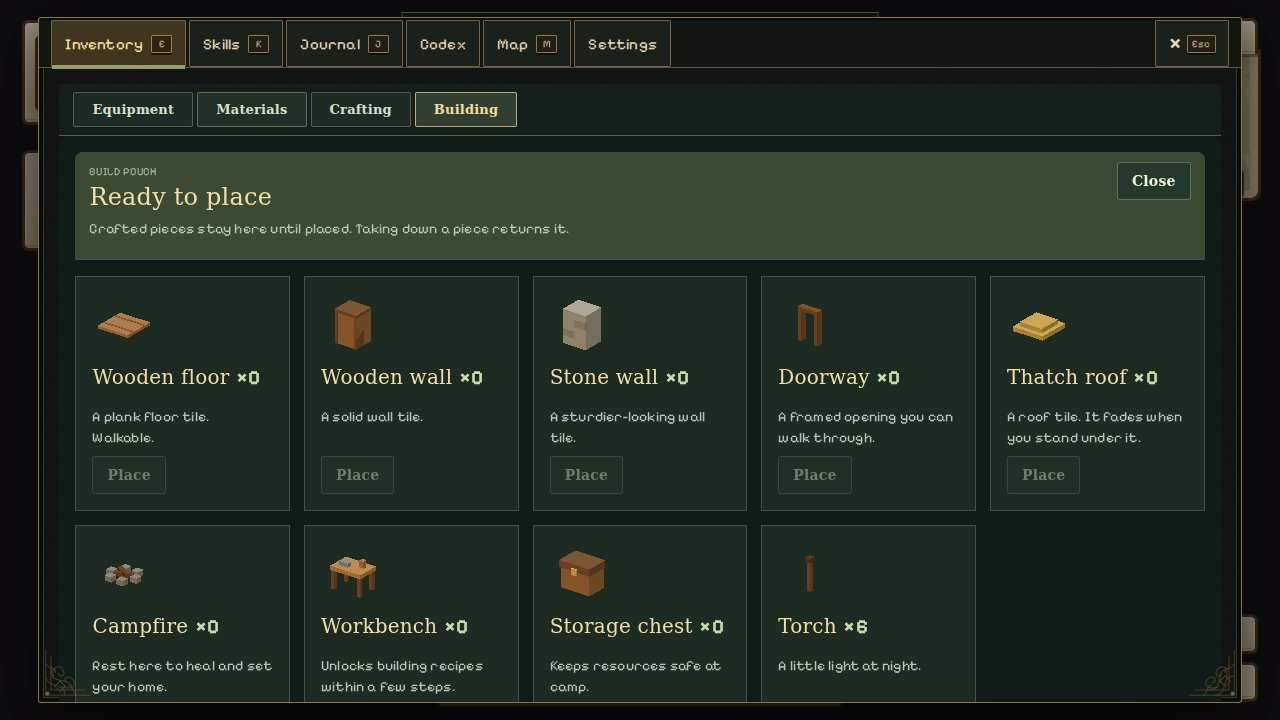
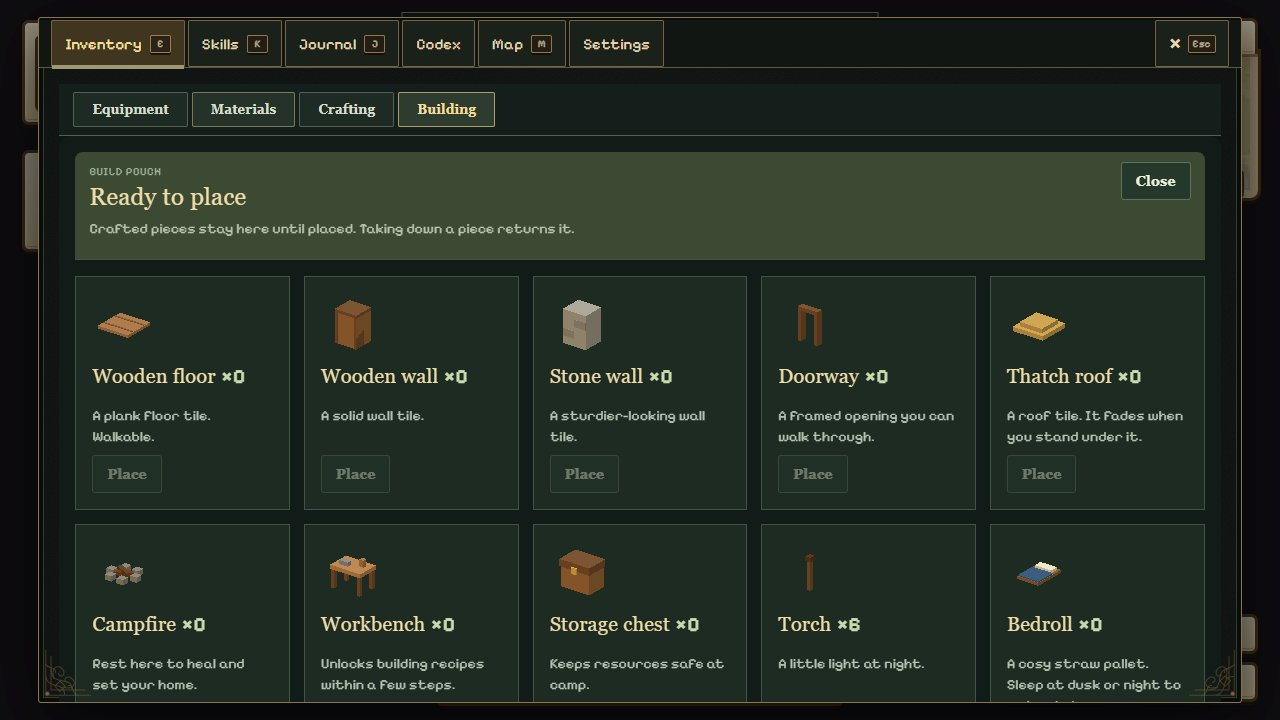
feat(survival): add bedroll night skipping, quick-stack chests, container crafting and warding brazier

diff --git a/src/survival/ui.js b/src/survival/ui.js
@@ -62,18 +62,22 @@ export class SurvivalUI {
   toggleCraft(){this.panel.classList.contains('hidden')?this.openCraft():this.g.ui.closeInventory();}
   openCraft(station,tab='craft') {this.closeAll();this.tab=tab;this.quantity=this.quantity||1;this.g.ui.invTab='bag';this.g.ui.openInventory();this.panel.classList.remove('hidden');this.decorate();this.renderPanel();this.g.input.keys.clear();}
   closeAll(){this.panel.classList.add('hidden');this.chest.classList.add('hidden');this.chestFor=null;document.getElementById('inv-bag')?.classList.toggle('hidden',this.g.ui.invTab!=='bag');const nav=document.getElementById('field-tabs');if(nav)for(const b of nav.children)b.setAttribute('aria-pressed',String(b.dataset.field==='equipment'));}
-  icon(id){return PIECES[id]?`<img class="craft-model" src="${structureIconURL(id,pieceParts(id))}" alt="">`:'<span class="craft-tonic" aria-hidden="true">✦</span>';}
+  icon(id){
+    if (PIECES[id]) return `<img class="craft-model" src="${structureIconURL(id,pieceParts(id))}" alt="">`;
+    if (id === 'pouch') return '<span class="craft-tonic" aria-hidden="true">🎒</span>';
+    return '<span class="craft-tonic" aria-hidden="true">✦</span>';
+  }
   renderPanel(){
     const m=this.m,R=m.record,kits=R.kits||{},q=this.quantity||1;
     if(this.tab==='materials'){
       const tips={wood:'Chop trees. Used for furniture and wooden structures.',stone:'Break rocks. Used for campfires and stonework.',fibre:'Cut shrubs; some trees also drop fibre. Used for torches and roofs.',ore:'Mine ore veins. Keep it in a chest for later recipes.',crystal:'Mine cave crystals. Used for crystal tonics.'};
-      this.panel.innerHTML=`<header><div><small>FIELD INVENTORY</small><h2>Materials</h2><p>Shared by all recipes. These do not occupy equipment slots.</p></div><button data-act="close">Close</button></header><div class="material-grid">${RESOURCES.map(k=>`<article><span>${ICON[k]}</span><h3>${NAME[k]} <b>${R.resources[k]}</b></h3><p>${tips[k]}</p></article>`).join('')}</div><footer><button data-act="home">Go home</button><button data-act="unstuck">Unstuck</button><button data-act="quit">Save & quit</button></footer>`;return;
+      this.panel.innerHTML=`<header><div><small>FIELD INVENTORY</small><h2>Materials</h2><p>Shared by all recipes. These do not occupy equipment slots.</p></div><button data-act="close">Close</button></header><div class="material-grid">${RESOURCES.map(k=>`<article><span>${ICON[k]}</span><h3>${NAME[k]} <b>${R.resources[k]}</b></h3><p>${tips[k]}</p></article>`).join('')}</div><footer><button data-act="quickstack">Quick stack to chests</button><button data-act="home">Go home</button><button data-act="unstuck">Unstuck</button><button data-act="quit">Save & quit</button></footer>`;return;
     }
     if(this.tab==='build'){
       this.panel.innerHTML=`<header><div><small>BUILD POUCH</small><h2>Ready to place</h2><p>Crafted pieces stay here until placed. Taking down a piece returns it.</p></div><button data-act="close">Close</button></header><div class="build-grid">${Object.entries(PIECES).map(([k,p])=>`<article>${this.icon(k)}<h3>${esc(p.name)} <b>×${kits[k]||0}</b></h3><p>${esc(p.desc)}</p><button data-act="place" data-id="${k}" ${kits[k]>0?'':'disabled'}>Place</button></article>`).join('')}</div><footer><button data-act="place" data-id="demolish">Take down a piece</button><span>Point with mouse or right stick. Attack places; secondary cancels.</span></footer>`;return;
     }
-    const selected=RECIPES.find(r=>r.id===this.selectedRecipe)||RECIPES[0];this.selectedRecipe=selected.id;const c=m.canCraft(selected.id,q);
-    this.panel.innerHTML=`<header><div><small>CAMP WORKSHOP</small><h2>Craft something useful</h2><p>${m.nearStation('workbench')?'Workbench nearby · station recipes available':'Hand crafting · place a workbench for more recipes'}</p></div><button data-act="close">Close</button></header><div class="craft-layout"><div class="recipe-list" aria-label="Recipes">${RECIPES.map(r=>`<button data-act="recipe" data-id="${r.id}" aria-pressed="${r.id===selected.id}">${this.icon(r.gives)}<span><b>${esc(r.name)}</b><small>${m.canCraft(r.id).ok?'Ready to craft':r.station&&!m.nearStation(r.station)?'Needs '+esc(PIECES[r.station]?.name||r.station):'Gather materials'}</small></span></button>`).join('')}</div><section class="recipe-detail">${this.icon(selected.gives)}<small>${selected.station?esc(PIECES[selected.station]?.name||selected.station):'BY HAND'} · ${selected.qty||1} PER CRAFT</small><h3>${esc(selected.name)}</h3><p>${esc(selected.desc)}</p><dl>${Object.entries(selected.cost).map(([k,v])=>`<div class="${R.resources[k]>=v*q?'ok':'no'}"><dt>${ICON[k]} ${NAME[k]}</dt><dd>${R.resources[k]} / ${v*q} <small>held / needed</small></dd></div>`).join('')}</dl><label>Number of crafts <input type="number" data-quantity min="1" max="99" value="${q}" aria-label="Number of crafts"></label><p class="craft-result">Makes ${q*(selected.qty||1)} · ${selected.gives==='tonic'?'Tonic pouch':`${kits[selected.gives]||0} already in build pouch`}</p><p class="craft-reason" role="status">${esc(c.ok?'Materials ready.':c.why)}</p><div class="craft-actions"><button data-act="craftit" data-id="${selected.id}" ${c.ok?'':'disabled'}>Craft ${q*(selected.qty||1)}</button><button data-act="track" data-id="${selected.id}">${R.trackedRecipe===selected.id?'Untrack':'Track materials'}</button></div></section></div>`;
+    const selected=RECIPES.find(r=>r.id===this.selectedRecipe)||RECIPES[0];this.selectedRecipe=selected.id;const c=m.canCraft(selected.id,q);const avail=m.availableResources(10);
+    this.panel.innerHTML=`<header><div><small>CAMP WORKSHOP</small><h2>Craft something useful</h2><p>${m.nearStation('workbench')?'Workbench nearby · station recipes available':'Hand crafting · place a workbench for more recipes'}</p></div><button data-act="close">Close</button></header><div class="craft-layout"><div class="recipe-list" aria-label="Recipes">${RECIPES.map(r=>`<button data-act="recipe" data-id="${r.id}" aria-pressed="${r.id===selected.id}">${this.icon(r.gives)}<span><b>${esc(r.name)}</b><small>${m.canCraft(r.id).ok?'Ready to craft':r.station&&!m.nearStation(r.station)?'Needs '+esc(PIECES[r.station]?.name||r.station):'Gather materials'}</small></span></button>`).join('')}</div><section class="recipe-detail">${this.icon(selected.gives)}<small>${selected.station?esc(PIECES[selected.station]?.name||selected.station):'BY HAND'} · ${selected.qty||1} PER CRAFT</small><h3>${esc(selected.name)}</h3><p>${esc(selected.desc)}</p><dl>${Object.entries(selected.cost).map(([k,v])=>{const held=R.resources[k]||0;const inChest=(avail[k]||0)-held;const totalAvail=avail[k]||0;const needed=v*q;return `<div class="${totalAvail>=needed?'ok':'no'}"><dt>${ICON[k]} ${NAME[k]}</dt><dd>${held}${inChest>0?` <small>(+${inChest} in chest)</small>`:''} / ${needed} <small>avail / needed</small></dd></div>`;}).join('')}</dl><label>Number of crafts <input type="number" data-quantity min="1" max="99" value="${q}" aria-label="Number of crafts"></label><p class="craft-result">Makes ${q*(selected.qty||1)} · ${selected.gives==='tonic'?'Tonic pouch':selected.gives==='pouch'?`Pouch capacity (${this.g.inv.maxPotions||3}/5)`:`${kits[selected.gives]||0} already in build pouch`}</p><p class="craft-reason" role="status">${esc(c.ok?'Materials ready.':c.why)}</p><div class="craft-actions"><button data-act="craftit" data-id="${selected.id}" ${c.ok?'':'disabled'}>Craft ${q*(selected.qty||1)}</button><button data-act="track" data-id="${selected.id}">${R.trackedRecipe===selected.id?'Untrack':'Track materials'}</button></div></section></div>`;
   }
   onPanel(e){const b=e.target.closest('[data-act]');if(!b||b.disabled)return;const m=this.m;switch(b.dataset.act){
     case 'close':this.g.ui.closeInventory();break;
@@ -81,6 +85,7 @@ export class SurvivalUI {
     case 'track':m.record.trackedRecipe=m.record.trackedRecipe===b.dataset.id?null:b.dataset.id;this.g.save();this.refresh();break;
     case 'craftit':m.craft(b.dataset.id,this.quantity||1);this.renderPanel();break;
     case 'place':if(m.startBuild(b.dataset.id))this.g.ui.closeInventory();break;
+    case 'quickstack':m.quickStack();this.renderPanel();this.refresh();break;
     case 'home':this.g.ui.closeInventory();m.goHome();break;
     case 'unstuck':this.g.ui.closeInventory();m.unstick();break;
     case 'quit':this.g.ui.closeInventory();m.quit();break;
@@ -89,12 +94,18 @@ export class SurvivalUI {
   openChest(s) { this.g.ui.closeInventory(); this.closeAll(); this.chestFor = s; this.chest.classList.remove('hidden'); this.renderChest(); this.g.input.keys.clear(); }
   renderChest() {
     const R = this.m.record, S = R.storage[this.chestFor.id] || {};
-    this.chest.innerHTML = `<header><h2>Storage chest</h2><button type="button" data-act="close" aria-label="Close">✕</button></header>
+    this.chest.innerHTML = `<header><h2>Storage chest</h2><div class="chest-actions"><button type="button" data-act="quickstack" class="quick-stack-btn">Quick stack</button><button type="button" data-act="close" aria-label="Close">✕</button></div></header>
       <table><thead><tr><th></th><th>Carried</th><th></th><th>In chest</th></tr></thead><tbody>${RESOURCES.map(r => `<tr><th>${ICON[r]} ${NAME[r]}</th><td>${R.resources[r]}</td><td class="sv-moves"><button type="button" data-act="in" data-r="${r}" data-n="10">Store 10</button><button type="button" data-act="in" data-r="${r}" data-n="9999">Store all</button><button type="button" data-act="out" data-r="${r}" data-n="10">Take 10</button><button type="button" data-act="out" data-r="${r}" data-n="9999">Take all</button></td><td>${S[r] || 0}</td></tr>`).join('')}</tbody></table>`;
   }
   onChest(e) {
     const b = e.target.closest('[data-act]'); if (!b) return;
     if (b.dataset.act === 'close') return this.closeAll();
+    if (b.dataset.act === 'quickstack') {
+      this.m.quickStack();
+      this.renderChest();
+      this.refresh();
+      return;
+    }
     const n = +b.dataset.n, r = b.dataset.r;
     if (b.dataset.act === 'in') this.m.deposit(this.chestFor, r, n); else this.m.withdraw(this.chestFor, r, n);
     this.renderChest(); this.refresh();

diff --git a/src/survival/mode.js b/src/survival/mode.js
@@ -10,7 +10,7 @@ import { RECIPES } from './craft.js';
 import { WORLD, GEN_VERSION, BIOMES } from './biome.js';
 import { regionPoi } from './gen.js';
 import { T, isSolid, isLiquid } from '../world/tiles.js';
-import { defaultInventory, createProfile, runtimeEquipment, copy } from '../persistence/model.js';
+import { defaultInventory, createProfile, runtimeEquipment, copy, worldPhase } from '../persistence/model.js';
 import { restoreCharacter } from '../persistence/session.js';
 import { starterWeapon } from '../rpg/items.js';
 import { makeEnemy } from '../entities/enemies.js';
@@ -125,7 +125,11 @@ export class SurvivalMode {
       else if (d.type === 'svchest') list.push(g.spawn(new LootCache(g, d, this)));
       else list.push(g.spawn(new Landmark(g, d, this)));
     }
-    for (const m of c.packs) if (!this.killed.has(m.id)) { const e = this.enemy(m.kind, m.x, m.z); if (e) { e.packId = m.id; list.push(e); } }
+    for (const m of c.packs) if (!this.killed.has(m.id)) {
+      const nearBrazier = R.structures.some(s => s.type === 'brazier' && Math.hypot(s.x - m.x, s.z - m.z) < 20);
+      if (nearBrazier) continue;
+      const e = this.enemy(m.kind, m.x, m.z); if (e) { e.packId = m.id; list.push(e); }
+    }
     for (const s of R.structures) if (this.chunkOf(s.x, s.z) === key) list.push(g.spawn(new Structure(g, s, this)));
     this.byChunk.set(key, list);
   }
@@ -154,24 +158,67 @@ export class SurvivalMode {
     R.resources[res] += n; this.g.ui.float && this.g.ui.float(x ?? this.g.player.x, 1.2, z ?? this.g.player.z, '+' + n + ' ' + res, '#e8d6a8', false, true);
     this.ui && this.ui.refresh(); this.hintCheck();
   }
-  has(cost) { return Object.entries(cost).every(([k, v]) => (this.record.resources[k] || 0) >= v); }
+  nearbyChests(r = 10) {
+    const p = this.g.player; if (!p) return [];
+    return this.g.entities.filter(e => e.isStructure && e.type === 'chest' && !e.dead && Math.hypot(e.x - p.x, e.z - p.z) < r);
+  }
+  availableResources(r = 10) {
+    const R = this.record, avail = { ...R.resources };
+    for (const chest of this.nearbyChests(r)) {
+      const S = R.storage[chest.id] || {};
+      for (const [k, v] of Object.entries(S)) avail[k] = (avail[k] || 0) + v;
+    }
+    return avail;
+  }
+  has(cost) {
+    const avail = this.availableResources(10);
+    return Object.entries(cost).every(([k, v]) => (avail[k] || 0) >= v);
+  }
   nearStation(type, r = 4.5) { const p = this.g.player; return this.g.entities.some(e => e.isStructure && e.type === type && !e.dead && Math.hypot(e.x - p.x, e.z - p.z) < r); }
   canCraft(id, count = 1) {
     if(!Number.isInteger(count)||count<1||count>99)return {ok:false,why:"Choose 1–99 crafts."};
     const r = RECIPES.find(x => x.id === id); if (!r) return { ok: false, why: 'Unknown recipe.' };
     if (r.station && !this.nearStation(r.station)) return { ok: false, why: 'Needs a ' + PIECES[r.station].name.toLowerCase() + ' nearby.' };
-    if(r.gives==='tonic'&&this.g.inv.potions+count*(r.qty||1)>this.g.inv.maxPotions)return {ok:false,why:'No room for that many tonics.'};
-    const total=Object.fromEntries(Object.entries(r.cost).map(([k,v])=>[k,v*count]));
-    if (!this.has(total)) return { ok: false, why: 'Not enough: ' + Object.entries(total).filter(([k, v]) => this.record.resources[k] < v).map(([k, v]) => (v - this.record.resources[k]) + ' more ' + k).join(', ') + '.' };
+    if (r.gives === 'tonic' && this.g.inv.potions + count * (r.qty || 1) > (this.g.inv.maxPotions || 3)) return { ok: false, why: 'No room for that many tonics.' };
+    if (r.gives === 'pouch' && (this.g.inv.maxPotions || 3) + count > 5) return { ok: false, why: 'Tonic belt pouch cannot exceed 5.' };
+    const total = Object.fromEntries(Object.entries(r.cost).map(([k, v]) => [k, v * count]));
+    const avail = this.availableResources(10);
+    if (!this.has(total)) return { ok: false, why: 'Not enough: ' + Object.entries(total).filter(([k, v]) => (avail[k] || 0) < v).map(([k, v]) => (v - (avail[k] || 0)) + ' more ' + k).join(', ') + '.' };
     return { ok: true, why: '' };
   }
   craft(id, count = 1) {
-    const c = this.canCraft(id,count); if (!c.ok) { sfx('error'); return c; }
+    const c = this.canCraft(id, count); if (!c.ok) { sfx('error'); return c; }
     const r = RECIPES.find(x => x.id === id), R = this.record;
-    for (const [k, v] of Object.entries(r.cost)) R.resources[k] -= v*count;
-    if (r.gives === 'tonic') { this.g.inv.potions = Math.min(this.g.inv.maxPotions, this.g.inv.potions + count*(r.qty||1)); this.g.hudDirty = true; }
-    else { R.kits = R.kits || {}; R.kits[r.gives] = (R.kits[r.gives] || 0) + count*(r.qty || 1); }
-    sfx('forge'); this.g.ui.toast('Crafted: ' + r.name, r.gives === 'tonic' ? 'A tonic, ready to drink (H).' : 'Place it from the Build list.', 2);
+    for (const [k, v] of Object.entries(r.cost)) {
+      let needed = v * count;
+      const fromHeld = Math.min(needed, R.resources[k] || 0);
+      R.resources[k] -= fromHeld;
+      needed -= fromHeld;
+      if (needed > 0) {
+        for (const chest of this.nearbyChests(10)) {
+          const S = R.storage[chest.id] || {};
+          const fromChest = Math.min(needed, S[k] || 0);
+          S[k] -= fromChest;
+          needed -= fromChest;
+          if (needed <= 0) break;
+        }
+      }
+    }
+    if (r.gives === 'tonic') {
+      this.g.inv.potions = Math.min(this.g.inv.maxPotions || 3, this.g.inv.potions + count * (r.qty || 1));
+      this.g.hudDirty = true;
+    } else if (r.gives === 'pouch') {
+      this.g.inv.maxPotions = Math.min(5, (this.g.inv.maxPotions || 3) + count);
+      this.g.inv.potions = Math.min(this.g.inv.maxPotions, (this.g.inv.potions || 0) + count);
+      this.g.hudDirty = true;
+      this.g.ui.toast && this.g.ui.toast('Belt expanded', 'You can now carry up to ' + this.g.inv.maxPotions + ' tonics.', 2.4);
+    } else {
+      R.kits = R.kits || {}; R.kits[r.gives] = (R.kits[r.gives] || 0) + count * (r.qty || 1);
+    }
+    sfx('forge');
+    if (r.gives !== 'pouch') {
+      this.g.ui.toast && this.g.ui.toast('Crafted: ' + r.name, r.gives === 'tonic' ? 'A tonic, ready to drink (H).' : 'Place it from the Build list.', 2);
+    }
     this.ui && this.ui.refresh(); this.hintCheck(); this.g.save();
     return { ok: true };
   }
@@ -182,7 +229,7 @@ export class SurvivalMode {
     g.scene.add(ghost); this.build = { type, ghost, ok: false, tx: 0, tz: 0 }; this.ui && this.ui.refresh();
     return true;
   }
-  endBuild() { if (this.build) { this.g.scene.remove(this.build.ghost); this.build.ghost.geometry.dispose(); this.build.ghost.material.dispose(); this.build = null; this.ui && this.ui.refresh(); } }
+  endBuild() { if (this.build) { if (this.build.ghost) { this.g.scene.remove(this.build.ghost); this.build.ghost.geometry?.dispose(); this.build.ghost.material?.dispose(); } this.build = null; this.ui && this.ui.refresh(); } }
   target() {
     const g = this.g, p = g.player, inp = g.input;
     let x = p.x + Math.sin(p.facing) * 1.4, z = p.z + Math.cos(p.facing) * 1.4;
@@ -225,8 +272,65 @@ export class SurvivalMode {
   useStructure(s) {
     const g = this.g;
     if (s.type === 'campfire') { this.setHome(s.x, s.z + 1.1); g.inv.hp = g.inv.maxHp; g.inv.potions = Math.max(g.inv.potions, 2); g.res = 100; g.hudDirty = true; sfx('heart'); g.save(); }
+    if (s.type === 'bed') this.sleepInBed(s);
     if (s.type === 'workbench') this.ui && this.ui.openCraft(true);
     if (s.type === 'chest') this.ui && this.ui.openChest(s);
+  }
+  sleepInBed(s) {
+    const g = this.g;
+    if (g.transitioning || (g.player && g.player.combatT > 0)) {
+      g.ui.toast && g.ui.toast('In combat', 'You cannot sleep while in combat!', 1.8);
+      return;
+    }
+    const phase = worldPhase(g.time || 0, g.flags.dayOffset || 0);
+    if (!phase.isNight && phase.fraction < 0.62) {
+      g.ui.toast && g.ui.toast('Not tired yet', 'You can only sleep at dusk or during the night.', 2.0);
+      return;
+    }
+    const currentTotal = (g.time || 0) + (g.flags.dayOffset || 0);
+    const currentFrac = ((currentTotal / 420) + 0.32) % 1;
+    const neededAdvance = ((0.25 - currentFrac) % 1 + 1) % 1;
+    g.flags.dayOffset = (g.flags.dayOffset || 0) + neededAdvance * 420;
+    g.dayT = 0.25;
+    g.atmosphere && g.atmosphere(0.001);
+
+    this.setHome(s.x, s.z + 0.5, true);
+    g.inv.hp = g.inv.maxHp;
+    g.inv.potions = Math.max(g.inv.potions, 2);
+    g.res = 100;
+    g.hudDirty = true;
+    sfx('heart');
+    g.ui.toast && g.ui.toast('Dawn arrives', 'You wake rested at camp as the sun rises. Health restored.', 2.8);
+    g.save();
+  }
+  quickStack(r = 10) {
+    const chests = this.nearbyChests(r);
+    if (!chests.length) {
+      this.g.ui.toast && this.g.ui.toast('No chests nearby', 'Place a storage chest near camp to quick-stack.', 1.8);
+      return { ok: false, count: 0 };
+    }
+    const R = this.record;
+    let total = 0;
+    for (const chest of chests) {
+      const S = R.storage[chest.id] || (R.storage[chest.id] = {});
+      for (const res of RESOURCES) {
+        if ((S[res] || 0) > 0 && (R.resources[res] || 0) > 0) {
+          const amount = R.resources[res];
+          R.resources[res] = 0;
+          S[res] = (S[res] || 0) + amount;
+          total += amount;
+        }
+      }
+    }
+    if (total > 0) {
+      sfx('gatherpickup');
+      this.g.ui.toast && this.g.ui.toast('Quick-stacked', `Deposited ${total} items into nearby chests.`, 2.0);
+      this.ui && this.ui.refresh();
+      this.g.save();
+    } else {
+      this.g.ui.toast && this.g.ui.toast('No matching items', 'Chests only accept items they already hold.', 1.8);
+    }
+    return { ok: total > 0, count: total };
   }
   deposit(chest, res, n) { const R = this.record, S = R.storage[chest.id] || (R.storage[chest.id] = {}); n = Math.min(n, R.resources[res]); if (n <= 0) return 0; R.resources[res] -= n; S[res] = (S[res] || 0) + n; this.g.save(); return n; }
   withdraw(chest, res, n) { const R = this.record, S = R.storage[chest.id] || {}; n = Math.min(n, S[res] || 0); if (n <= 0) return 0; S[res] -= n; R.resources[res] += n; this.g.save(); return n; }

diff --git a/src/survival/entities.js b/src/survival/entities.js
@@ -125,6 +125,8 @@ export const PIECES = {
   workbench: { name: 'Workbench', solid: true, station: true, desc: 'Unlocks building recipes within a few steps.' },
   chest: { name: 'Storage chest', solid: true, desc: 'Keeps resources safe at camp.' },
   torch: { name: 'Torch', solid: false, desc: 'A little light at night.' },
+  bed: { name: 'Bedroll', solid: false, desc: 'A cosy straw pallet. Sleep at dusk or night to wake at dawn.' },
+  brazier: { name: 'Warding brazier', solid: true, desc: 'A glowing brazier that suppresses hostile creature spawns in camp.' },
 };
 export function pieceParts(type, roofColor=0xc8a050) {
   switch (type) {
@@ -137,26 +139,42 @@ export function pieceParts(type, roofColor=0xc8a050) {
     case 'workbench': return [B(1, 0.12, 0.7, 0, 0.55, 0, 0xb8844e), B(0.1, 0.55, 0.1, -0.42, 0, -0.28, 0x7a5230), B(0.1, 0.55, 0.1, 0.42, 0, -0.28, 0x7a5230), B(0.1, 0.55, 0.1, -0.42, 0, 0.28, 0x7a5230), B(0.1, 0.55, 0.1, 0.42, 0, 0.28, 0x7a5230), B(0.3, 0.12, 0.14, -0.2, 0.67, 0.1, 0x8a8a90), B(0.14, 0.2, 0.14, 0.25, 0.67, -0.1, 0xa8784a)];
     case 'chest': return [B(0.8, 0.5, 0.56, 0, 0, 0, 0x9a6a3a), B(0.84, 0.18, 0.6, 0, 0.5, 0, 0x7a5230), B(0.14, 0.16, 0.06, 0, 0.42, 0.3, 0xd8b050)];
     case 'torch': return [B(0.1, 0.9, 0.1, 0, 0, 0, 0x7a5230), B(0.18, 0.14, 0.18, 0, 0.9, 0, 0x5a3a20)];
+    case 'bed': return [B(1, 0.12, 1.4, 0, 0.06, 0, 0x8a5e36), B(0.96, 0.08, 0.9, 0, 0.14, 0.22, 0x3a5a78), B(0.76, 0.14, 0.36, 0, 0.16, -0.42, 0xe8e0c0), B(0.98, 0.03, 0.06, 0, 0.16, -0.22, 0xd8b050)];
+    case 'brazier': return [B(0.5, 0.5, 0.5, 0, 0.25, 0, 0x7a7468), B(0.64, 0.14, 0.64, 0, 0.55, 0, 0x5a5448), B(0.32, 0.18, 0.32, 0, 0.68, 0, 0x8ae8ff)];
     default: return [B(0.5, 0.5, 0.5, 0, 0, 0, 0xff00ff)];
   }
 }
 export class Structure extends Entity {
   constructor(g, s, owner) {
     super(g, s.x, s.z); this.s = s; this.id = s.id; this.type = s.type; this.owner = owner; this.P = PIECES[s.type];
-    this.solid = this.P.solid; this.hw = this.hd = s.type === 'campfire' || s.type === 'chest' ? 0.42 : 0.5; this.isStructure = true;
-    this.interactable = ['campfire', 'workbench', 'chest'].includes(s.type);
+    this.solid = this.P.solid; this.hw = this.hd = s.type === 'campfire' || s.type === 'chest' || s.type === 'brazier' ? 0.42 : 0.5; this.isStructure = true;
+    this.interactable = ['campfire', 'workbench', 'chest', 'bed'].includes(s.type);
     if (s.type === 'roof') { this.mat = new THREE.MeshLambertMaterial({ color: 0xc8a050, transparent: true, opacity: 1 }); const m = new THREE.Mesh(geo(pieceParts('roof',0xffffff)), this.mat); m.position.y = 1.45; this.obj.add(m); }
     else { const m = new THREE.Mesh(geo(pieceParts(s.type)), MAT); m.castShadow = true; this.obj.add(m); }
-    if (s.type === 'campfire' || s.type === 'torch') {
-      this.flame = new THREE.Mesh(geo([B(0.22, 0.3, 0.22, 0, 0, 0, 0xffb347), B(0.12, 0.2, 0.12, 0, 0.24, 0, 0xfff0a0)]), MAT_GLOW, false); this.flame.position.y = s.type === 'torch' ? 1.0 : 0.12; this.obj.add(this.flame);
-      if (owner.lightsInUse < 6) { owner.lightsInUse++; this.light = new THREE.PointLight(0xffa050, s.type === 'torch' ? 1.4 : 2.4, s.type === 'torch' ? 4 : 6, 1.6); this.light.position.y = 1.2; this.obj.add(this.light); }
+    if (s.type === 'campfire' || s.type === 'torch' || s.type === 'brazier') {
+      const isBrazier = s.type === 'brazier';
+      const col = isBrazier ? 0x8ae8ff : 0xffb347;
+      const lightCol = isBrazier ? 0x8ae8ff : 0xffa050;
+      this.flame = new THREE.Mesh(geo([B(0.22, 0.3, 0.22, 0, 0, 0, col), B(0.12, 0.2, 0.12, 0, 0.24, 0, isBrazier ? 0xdaf8ff : 0xfff0a0)]), MAT_GLOW, false);
+      this.flame.position.y = s.type === 'torch' ? 1.0 : (isBrazier ? 0.72 : 0.12);
+      this.obj.add(this.flame);
+      if (owner.lightsInUse < 6) {
+        owner.lightsInUse++;
+        this.light = new THREE.PointLight(lightCol, s.type === 'torch' ? 1.4 : (isBrazier ? 2.8 : 2.4), s.type === 'torch' ? 4 : (isBrazier ? 7 : 6), 1.6);
+        this.light.position.y = isBrazier ? 1.4 : 1.2;
+        this.obj.add(this.light);
+      }
     }
   }
-  get prompt() { return { campfire: 'Rest · set home here', workbench: 'Craft at the workbench', chest: 'Open storage' }[this.type] || null; }
+  get prompt() { return { campfire: 'Rest · set home here', workbench: 'Craft at the workbench', chest: 'Open storage', bed: 'Rest · sleep until dawn' }[this.type] || null; }
   interact() { this.owner.useStructure(this); }
   remove() { if (this.light) this.owner.lightsInUse--; super.remove(); }
   update(dt) {
-    if (this.flame) { this.flame.scale.y = 0.85 + Math.sin(this.g.time * 12 + this.x) * 0.15; if (Math.random() < 0.15) this.g.fx.add({ x: this.x, y: this.flame.position.y + 0.3, z: this.z, vy: 1, g: -1, color: 0xffb347, life: 0.5, size: 0.04 }); }
+    if (this.flame) {
+      this.flame.scale.y = 0.85 + Math.sin(this.g.time * 12 + this.x) * 0.15;
+      const isBrazier = this.s.type === 'brazier';
+      if (Math.random() < 0.15) this.g.fx.add({ x: this.x, y: this.flame.position.y + 0.3, z: this.z, vy: 1, g: -1, color: isBrazier ? 0x8ae8ff : 0xffb347, life: 0.5, size: 0.04 });
+    }
     if (this.mat) { const p = this.g.player, near = Math.abs(p.x - this.x) < 1.6 && Math.abs(p.z - this.z) < 1.6; this.mat.opacity += ((near ? 0.25 : 1) - this.mat.opacity) * Math.min(1, dt * 8); this.mat.depthWrite = this.mat.opacity > 0.9; }
   }
 }

diff --git a/src/survival/craft.js b/src/survival/craft.js
@@ -11,5 +11,8 @@ export const RECIPES = [
   { id: 'door', name: 'Doorway', gives: 'door', cost: { wood: 4 }, station: 'workbench', desc: 'An opening you can walk through.' },
   { id: 'roof', name: 'Thatch roof ×2', gives: 'roof', qty: 2, cost: { wood: 1, fibre: 2 }, station: 'workbench', desc: 'Goes over floors, walls and doorways.' },
   { id: 'chest', name: 'Storage chest', gives: 'chest', cost: { wood: 6, stone: 2 }, station: 'workbench', desc: 'Store resources at camp.' },
+  { id: 'bed', name: 'Bedroll', gives: 'bed', cost: { wood: 6, fibre: 4 }, station: 'workbench', desc: 'Rest at dusk or night to skip to dawn and set your home.' },
+  { id: 'brazier', name: 'Warding brazier', gives: 'brazier', cost: { stone: 6, wood: 4, crystal: 1 }, station: 'workbench', desc: 'A warding flame that suppresses hostile creature spawns in camp.' },
+  { id: 'pouch', name: 'Fibre pouch', gives: 'pouch', cost: { fibre: 8, wood: 4 }, station: 'workbench', desc: 'Increases maximum tonic capacity by +1 (up to 5).' },
   { id: 'tonic', name: 'Crystal tonic', gives: 'tonic', cost: { fibre: 3, crystal: 1 }, station: 'workbench', desc: 'Refills one tonic (H).' },
 ];

diff --git a/docs/survival-camp-qol.md b/docs/survival-camp-qol.md
@@ -1,0 +1,54 @@
+# Survival Pass 1: Camp Quality of Life & Homestead Progression
+
+Base commit: `33d80e9b77ee7cf94ef83b7a37bd97ca0968093d` (`feat/survival-ui-gathering`)
+Branch: `feat/survival-camp-qol`
+
+This pass completes Phase 1 of the Survival Mode Gameplay Loop roadmap, focusing on camp quality of life, storage convenience, hostile spawn control, and time-of-day progression.
+
+---
+
+## Systems & Enhancements
+
+### 1. Bedroll & Dawn Fast-Forward
+- **Recipe**: `bed` (Wood ×6, Fibre ×4 at Workbench).
+- **Functionality**:
+  - Interacting with the placed Bedroll at dusk or during the night (`worldPhase.fraction >= 0.62` or `isNight`) fast-forwards the 420-second world cycle directly to dawn (`worldPhase.fraction = 0.25`).
+  - Restores the player to full HP and refills tonic charges.
+  - Automatically updates the home respawn point.
+  - Sleeping is strictly disabled during active combat or during broad daylight.
+
+### 2. Container Crafting (Proximity Storage)
+- **Radius**: 10 meters around the player.
+- **Workflow**:
+  - The crafting panel scans all placed storage chests within 10 meters and aggregates their held resources.
+  - The UI displays exact inventory breakdown: `Carried (+Chest) / Required`.
+  - Crafting deducts from carried materials first, drawing any remaining balance from chests without requiring manual inventory shuffling.
+
+### 3. Quick Stack to Chests
+- **Access**: "Quick stack to chests" button in the Field Materials tab and "Quick stack" in the Storage Chest header.
+- **Behavior**:
+  - Inspects all placed chests within 10 meters.
+  - Automatically transfers any carried resources into chests that already contain a non-zero quantity of that resource.
+
+### 4. Warding Brazier
+- **Recipe**: `brazier` (Stone ×6, Wood ×4, Crystal ×1 at Workbench).
+- **Visuals**: Cyan brazier voxel geometry with active flame particles and point lighting.
+- **Spawn Suppression**: Suppresses hostile creature pack spawns within 20 meters of any placed brazier.
+
+### 5. Fibre Pouch (Tonic Belt Expansion)
+- **Recipe**: `pouch` (Fibre ×8, Wood ×4 at Workbench).
+- **Progression**: Permanently increases maximum tonic belt capacity by +1, up to a maximum cap of 5 tonics.
+
+---
+
+## Test Verification
+
+- **Automated Regression Suite**:
+  - `tests/camp_qol.test.mjs`: 8 passed, 0 failed.
+  - `tests/devlab_command.test.mjs`: 6 passed, 0 failed.
+  - `tests/fieldcraft.test.mjs`: 22 passed, 0 failed.
+  - `tests/survival.test.mjs`: 21 passed, 0 failed.
+  - `tests/survival_inventory.test.mjs`: 15 passed, 0 failed.
+  - **Browser assertions**: 72 passed, 0 failed.
+  - **Unit tests** (`controller`, `persistence`, `transfer`): 21 passed, 0 failed.
+  - **Total verified checks**: 93 passed, 0 failed.
